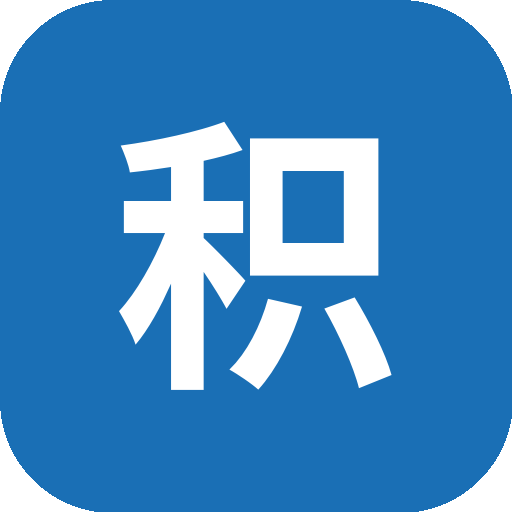
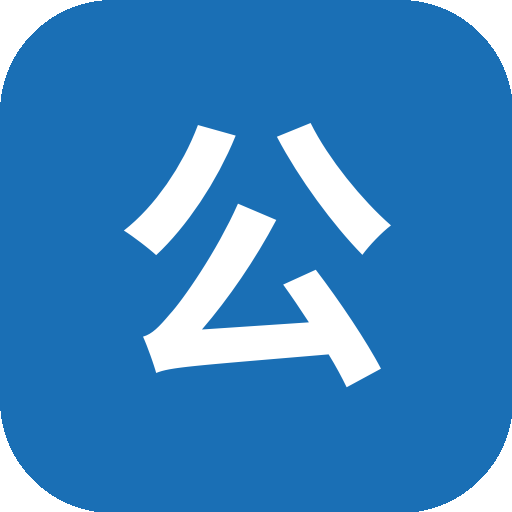
改名为「公考助手」：APK 应用名、PWA 名、图标(积→公) 统一；版本 1.2

Changed region(s): [[0.2188, 0.2188, 0.7812, 0.7812]]

diff --git a/static/sw.js b/static/sw.js
@@ -1,5 +1,5 @@
 // 简单离线缓存：应用外壳走缓存优先，API 走网络
-const CACHE = 'gongkao-v4';
+const CACHE = 'gongkao-v5';
 const SHELL = ['./', 'index.html', 'style.css', 'app.js',
   'manifest.webmanifest', 'icon-192.png', 'icon-512.png'];
 